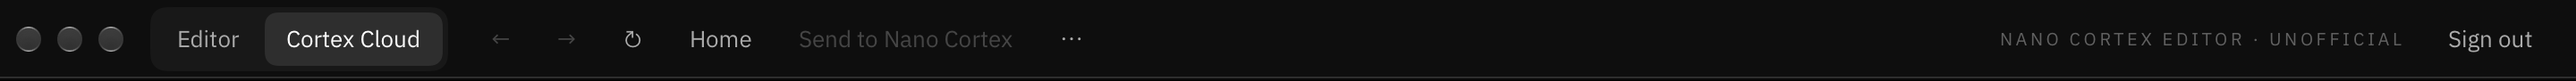
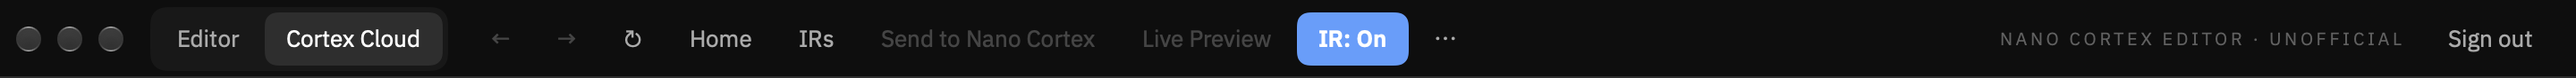
docs: retake the screenshots that show an outdated layout
Checked every image in the manual against the 1.2 app (demo mode, 1440 x 900,
blue accent). Retaken:

- cloud-toolbar: IRs, Live Preview and IR: On / Off beside Send to Nano Cortex
  (the tab bar only, never a Cloud page)
- hero: the Mute button in the header
- inspector-cab: the From the library section (search, factory cabs, your IRs)

Alt text for cloud-toolbar and inspector-cab updated to match. The others
(header, chain, sidebar, status bar, the Settings pages including Device ->
Monitoring and Metronome -> Sounds, and the rest) already match the current
layout and are unchanged.

diff --git a/docs/MANUAL.md b/docs/MANUAL.md
@@ -221,7 +221,7 @@ that uses the slot plays the new capture.
 
 ### Cab / IR
 
-<img src="images/inspector-cab.png" alt="The Cab / IR inspector: Level, High pass and Low pass knobs, the microphone and position pickers, and the five cab slots" width="1000">
+<img src="images/inspector-cab.png" alt="The Cab / IR inspector: Level, High pass and Low pass knobs, the microphone and position pickers, the five cab slots, and From the library with a search box, factory cabs and your IRs, each with a ▶ button" width="1000">
 
 **Tone**: Level, High pass and Low pass. **Microphone**: five mics and positions 1–6. Note that mic and position
 are stored **in the cab slot itself**: changing them changes every preset that uses the slot, and no save is needed.
@@ -331,7 +331,7 @@ The **Cortex Cloud** tab (⌘2) shows the Cortex Cloud website inside the app. S
 Neural DSP account; the app keeps the session. Your Mac's password autofill works there. Links outside Cortex Cloud
 open in your browser.
 
-<img src="images/cloud-toolbar.png" alt="The Cortex Cloud toolbar: back, forward, reload, Home, Send to Nano Cortex, the more menu, and Sign out" width="1000">
+<img src="images/cloud-toolbar.png" alt="The Cortex Cloud toolbar: back, forward, reload, Home, IRs, Send to Nano Cortex, Live Preview, IR: On, the more menu, and Sign out" width="1000">
 
 The toolbar has **back**, **forward**, **reload**, **Home**, **IRs**, **Send to Nano Cortex**, **Live Preview**,
 **IR: On / Off**, a **⋯** menu and **Sign out**.
